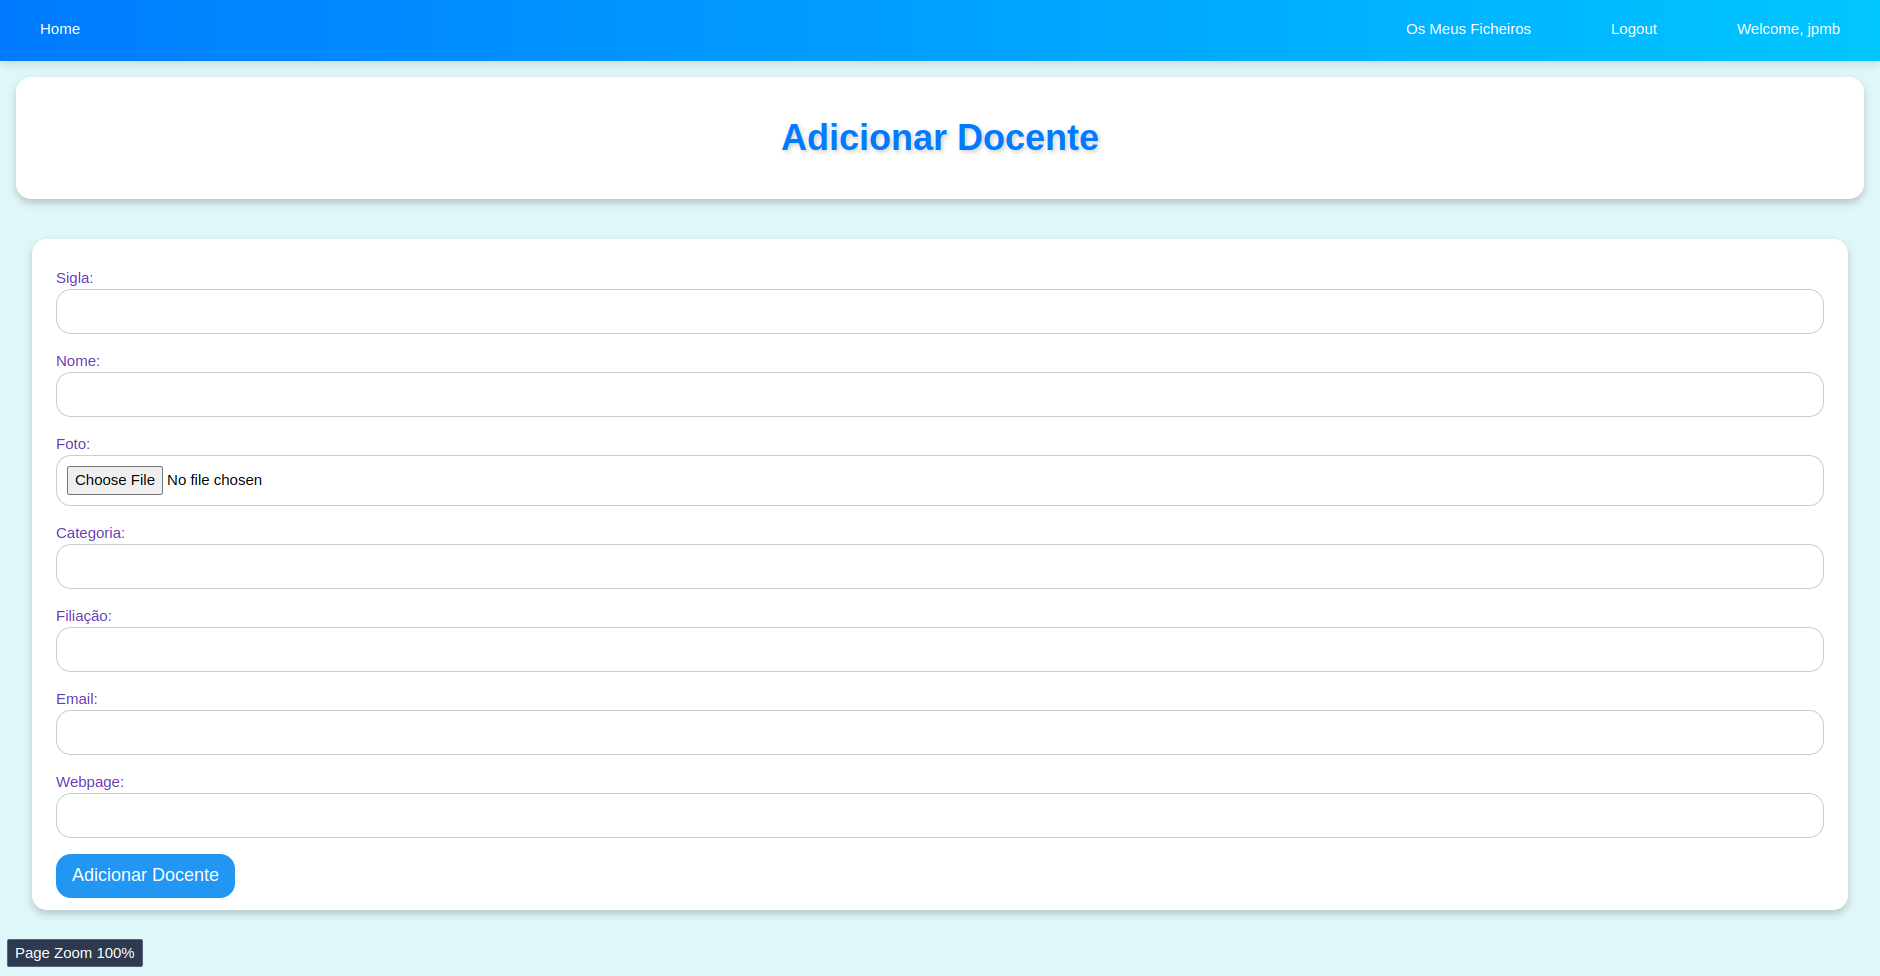
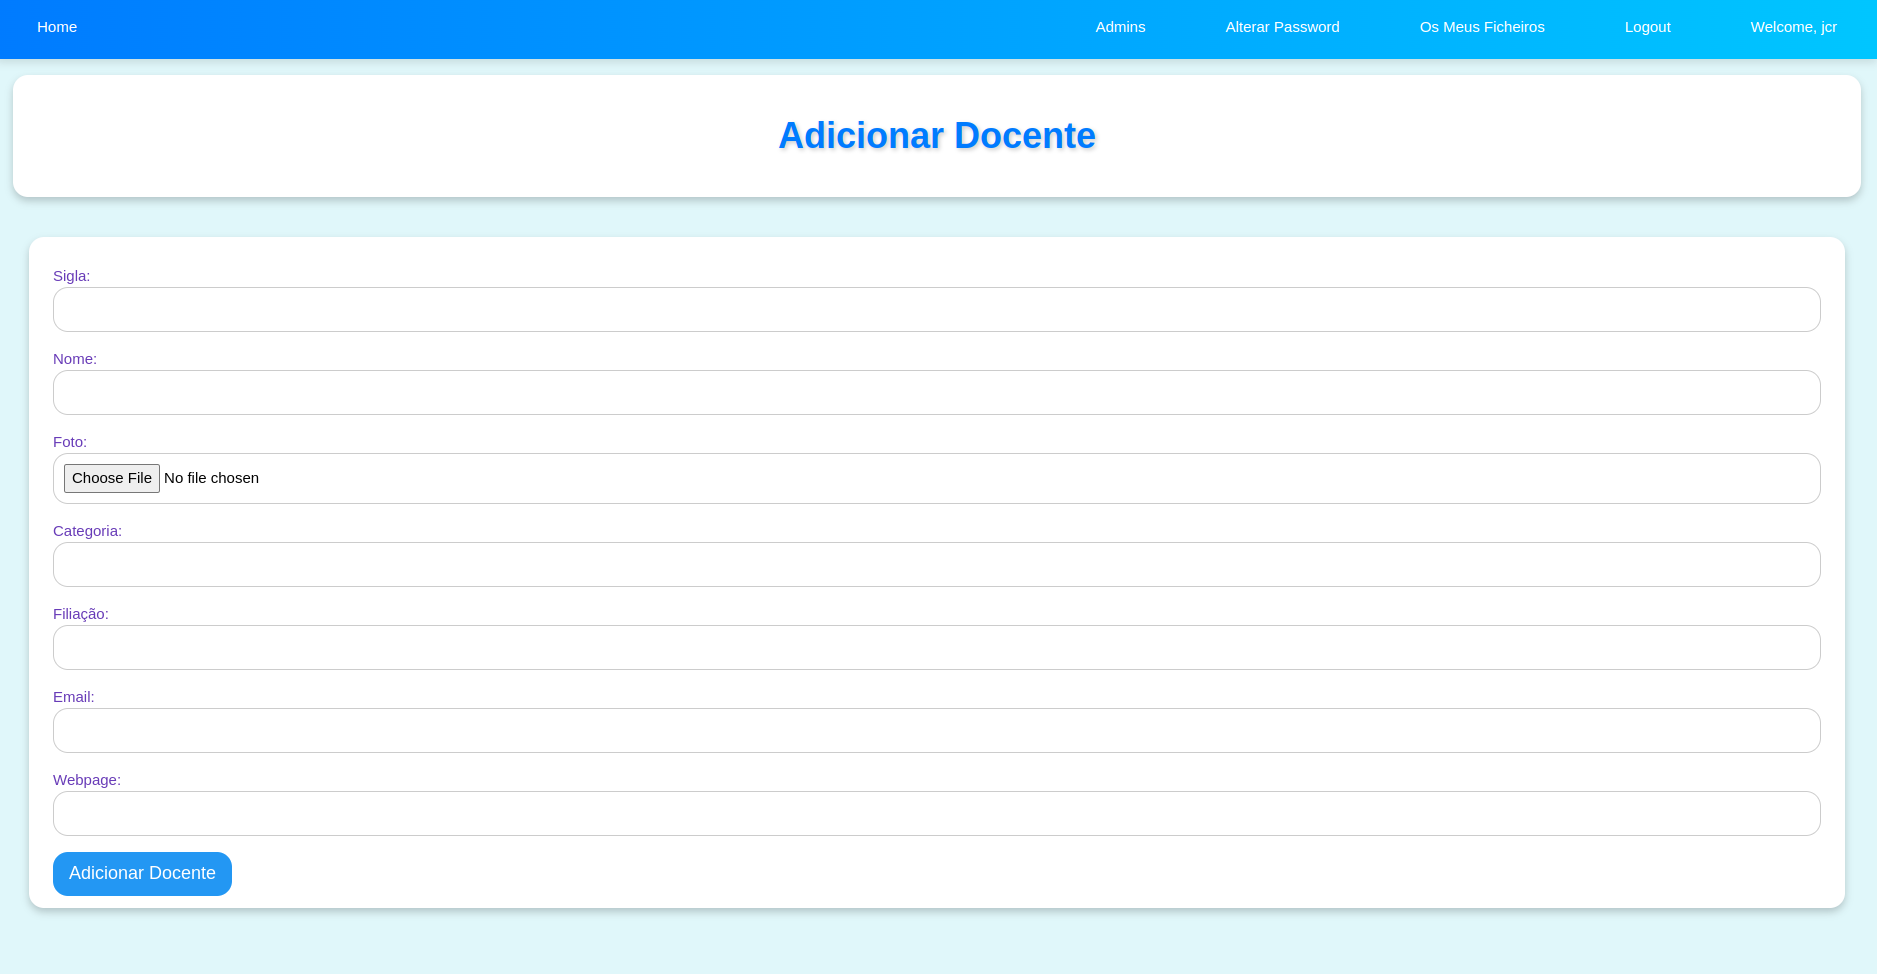
admin e relatorio

diff --git a/html-geradorUCs/routes/index.js b/html-geradorUCs/routes/index.js
@@ -214,7 +214,7 @@ router.get('/addAdmin', async function (req, res, next) {
 		return;
 	}
 	
-	res.render('addAdmin', { title: 'Registar Administrador' });
+	res.render('addAdmin', { title: 'Registar Administrador', userLogged, isAdmin, username });
 });
 
 router.post('/signup', async function (req, res, next) {
@@ -285,7 +285,7 @@ router.post('/signupAdmin', async function (req, res, next) {
 	axios.post(process.env.AUTH_URI + "/registerAdmin", req.body)
 		.then(response => {
 			if (response.data.error && response.data.message) {
-				res.render('addAdmin', { title: 'Registar Administrador', error: response.data.message });
+				res.render('addAdmin', { title: 'Registar Administrador', error: response.data.message, userLogged, isAdmin, username});
 				return;
 			}
 
@@ -356,6 +356,72 @@ router.post('/changePassword', async function (req, res, next) {
 				return;
 			}
 			res.render('success', { title: 'Sucesso', sucesso: 'Password alterada com sucesso.', userLogged, isAdmin, username });
+		})
+		.catch(e => {
+			res.render('error', { error: { status: 501, message: e.response.data.message }, title: 'Erro', userLogged, isAdmin, username });
+		})
+});
+
+router.get('/admins', async function (req, res, next) {
+	var userLogged = false;
+	var isAdmin = false;
+	var username = "";
+
+	if (req.cookies.token != 'undefined' && req.cookies.token != undefined) {
+		const response = await axios.get(process.env.AUTH_URI + '/isLogged?token=' + req.cookies.token)
+		if (response.data.isExpired || response.data.isError) {
+			res.cookie('token', undefined)
+			res.render('login', { title: 'Login', error: 'Login Expirado.' });
+			return;
+		}
+		userLogged = response.data.isLogged;
+		isAdmin = response.data.isAdmin;
+		username = response.data.username;
+	}
+
+	if (!isAdmin) {
+		res.redirect('/')
+		return;
+	}
+
+	axios.get(process.env.AUTH_URI + '/admins?token=' + req.cookies.token)
+		.then(response => {
+			res.render('admins', { admins: response.data, title: 'Administradores', userLogged, isAdmin, username });
+		})
+		.catch(e => {
+			res.render('error', { error: { status: 501, message: e.response.data.message }, title: 'Erro', userLogged, isAdmin, username });
+		})
+});
+
+router.get('/admins/delete', async function (req, res, next) {
+	var userLogged = false;
+	var isAdmin = false;
+	var username = "";
+
+	if (req.cookies.token != 'undefined' && req.cookies.token != undefined) {
+		const response = await axios.get(process.env.AUTH_URI + '/isLogged?token=' + req.cookies.token)
+		if (response.data.isExpired || response.data.isError) {
+			res.cookie('token', undefined)
+			res.render('login', { title: 'Login', error: 'Login Expirado.' });
+			return;
+		}
+		userLogged = response.data.isLogged;
+		isAdmin = response.data.isAdmin;
+		username = response.data.username;
+	}
+
+	if (!isAdmin) {
+		res.redirect('/')
+		return;
+	}
+
+	axios.post(process.env.AUTH_URI + '/deleteAdmin?username=' + req.query.username + '&token=' + req.cookies.token)
+		.then(response => {
+			if (response.data.error) {
+				res.render('error', { error: { status: 501, message: response.data.error }, title: 'Erro', userLogged, isAdmin, username });
+				return;
+			}
+			res.render('success', { title: 'Sucesso', sucesso: 'Administrador removido com sucesso.', userLogged, isAdmin, username });
 		})
 		.catch(e => {
 			res.render('error', { error: { status: 501, message: e.response.data.message }, title: 'Erro', userLogged, isAdmin, username });

diff --git a/auth-geradorUCs/routes/index.js b/auth-geradorUCs/routes/index.js
@@ -12,6 +12,22 @@ router.get('/admins', function (req, res) {
     .catch(e => res.status(500).jsonp({ error: e }))
 });
 
+router.post('/deleteAdmin', auth.verificaAcesso, function (req, res) {
+  if (req.payload.level !== 'admin') {
+    res.status(401).jsonp({ error: "Unauthorized" });
+    return;
+  }
+
+  User.findOneAndDelete({ username: req.query.username, level: 'admin' }).exec()
+    .then(dados => {
+      if (dados)
+        res.jsonp({ message: "Admin deleted with success" })
+      else
+        res.status(404).jsonp({ error: "Admin not found" })
+    })
+    .catch(e => res.status(500).jsonp({ error: e }))
+});
+
 router.post('/changePassword', auth.verificaAcesso, function (req, res) {
   const oldPassword = req.body.oldPassword;
   const newPassword = req.body.newPassword;

diff --git a/html-geradorUCs/routes/files.js b/html-geradorUCs/routes/files.js
@@ -38,6 +38,8 @@ router.get('/', async function (req, res, next) {
 		return;
 	}
 
+	var folderName = path.basename(absolutePath);
+
     fs.readdir(absolutePath, { withFileTypes: true }, (err, files) => {
         if (err) {
 			res.render('error', { error: { status: 501, message: 'Erro ao listar ficheiros' }, title: 'Erro', userLogged, isAdmin, username});
@@ -48,7 +50,7 @@ router.get('/', async function (req, res, next) {
             isDirectory: file.isDirectory()
         }));
 
-        res.render('files', { path: relativePath, files: fileList, title: 'Ficheiros', userLogged, isAdmin, username });
+        res.render('files', { path: relativePath, files: fileList, title: 'Ficheiros: ' + folderName, userLogged, isAdmin, username });
     })
 });
 

diff --git a/README.md b/README.md
@@ -53,7 +53,7 @@ Lida com a autenticação dos utilizadores, utilizando tokens JWT para verificar
   - Usa `passport-local-mongoose` para simplificar a autenticação com Passport.js.
 
 - **Rotas**
-  - **`index.js`**: Inclui rotas para registo (`/register`), login (`/login`) e verificação de sessão (`/isLogged`).
+  - **`index.js`**: Inclui rotas para registo (`/register`), registo de administradores (`/registerAdmin`), login (`/login`) verificação de sessão (`/isLogged`), listar administradores (`/admins`), apagar administradores (`/deleteAdmin`) e alterar palavra-passe (`/changePassword`).
 
 - **Middleware de Autenticação**
   - **`auth.js`**: Middleware que verifica e valida tokens JWT fornecidos nas requisições, e gere erros de autenticação.
@@ -77,7 +77,7 @@ Fornece a interface ao utilizador para integração com a plataforma, permitindo
 #### Principais Componentes
 
 - **Rotas**
-  - **`index.js`**: gere o rendering das páginas cujos botões existem na página inicial, bem como o login, registo, logout e adicionar Administradores (no caso de já ser um).
+  - **`index.js`**: gere o rendering das páginas cujos botões existem na página inicial e header, bem como o login, registo, logout, alterar password e adicionar e remover administradores (no caso de já ser um).
   - **`uc.js`**: gere a adição, edição e visualização de detalhes das UCs.
   - **`addDocente.js`**: gere a adição de novos docentes.
   - **`files.js`**: gere o upload, download e organização de ficheiros dos utilizadores.
@@ -92,6 +92,7 @@ Fornece a interface ao utilizador para integração com a plataforma, permitindo
   - **`login.pug`**: Formulário de login do utilizador.
   - **`signup.pug`**: Formulário de registo de novo utilizador.
   - **`files.pug`**: Interface para gestão de ficheiros dos utilizadores.
+  - **`admins.pug`**: Interface para gestão de administradores.
   - **`error.pug`**: Página de erro para exibição de mensagens de erro.
   - **`success.pug`**: Página de sucesso para exibição de mensagens de sucesso.
 
@@ -142,6 +143,8 @@ A interface HTML é configurada para ser executada em um container Docker, garan
 
 - **Registo de Utilizador**: Formulário para criar uma nova conta de utilizador.
 - **Registo de Administrador**: Formulário para criar uma nova conta de Administrador, caso já seja um.
+- **Consulta e Remoção de Utilizadores**: Página que permite visualizar os administradores que existem, e remover caso seja necessário.
+- **Alteração de Password**: Formulário para alterar a password do utilizador.
 - **Login**: Formulário de login que autentica os utilizadores e gera um token JWT.
 - **Logout**: Opção de logout que termina a sessão do utilizador.
 - **Verificação de Sessão**: Verifica se um utilizador está autenticado e se o token JWT é válido.
@@ -206,10 +209,22 @@ Este projeto representa uma solução integrada e modular para a gestão de UCs,
 ![Página de Ficheiros de um Utilizador (2)](./imgs/Ficheiros2.png)
 ![Página de Ficheiros de um Utilizador (3)](./imgs/Ficheiros3.png)
 
+### Página de Mudar Password
+
+![Página de Mudar Password](./imgs/ChangePassword.png)
+
+### Página de Adicionar Administrador
+
+![Página de Adicionar Administrador](./imgs/AddAdmin.png)
+
+### Página de Gestão Administradores
+
+![Página de Gestão Administradores](./imgs/Admins.png)
+
 ### Página de Sucesso
 
-![Página de Sucesso](./imgs/Sucesso.png)
+![Página de Sucesso](./imgs/Success.png)
 
 ### Página de Erro
 
-![Página de Erro](./imgs/Erro.png)
+![Página de Erro](./imgs/Error.png)
